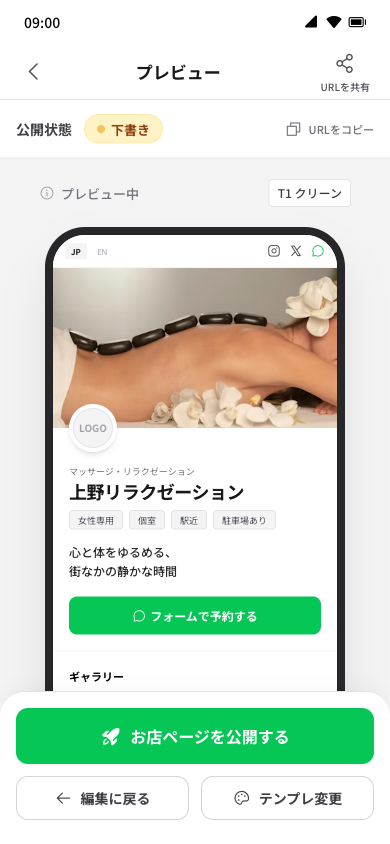
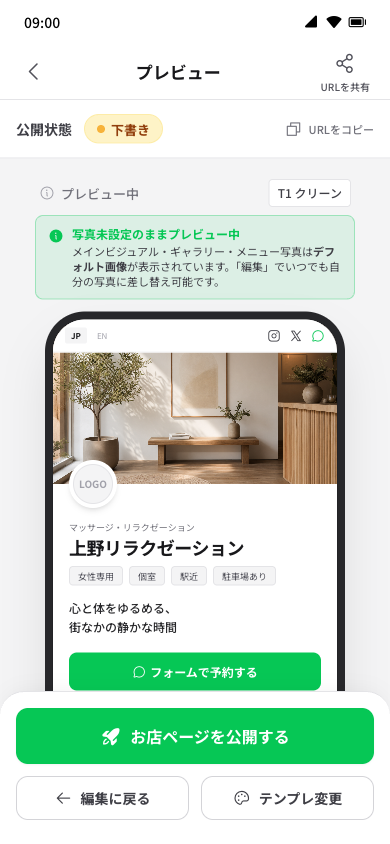
feat: タグ候補にも×削除ボタン / preview をデフォルト値ベースに変更
- Block 3 タグ候補リスト（12個）の各タグに「×」削除ボタンを追加
  ｜タグ本体タップ＝選択中に追加（既存）
  ｜×ボタン＝候補から完全削除（border-l 区切りで2分割）
  ｜hover で text-red-500 に色変化
- ラベル更新「タップで追加・×で候補から削除」と明示
- 03_preview.html を全面リニューアル：
  * 「写真未設定のままプレビュー中」の案内バナーを追加（LINE緑系）
  * ヒーローを default/00_hero.webp に置換、DEFAULTバッジ追加
  * ギャラリー4枚を default/01-04 に置換、各サムネに DEFAULT バッジ
  * メニュー3項目に default/menu/01-04 サムネを追加（120分項目も復活）

Changed region(s): [[0.0923, 0.2464, 0.8923, 0.8318]]

diff --git a/shop-page/admin/03_preview.html b/shop-page/admin/03_preview.html
@@ -84,12 +84,21 @@
         <div class="flex-1 overflow-y-auto pb-[220px] bg-zinc-100 relative">
 
             <!-- Template Switcher Context -->
-            <div class="w-full max-w-[320px] mx-auto flex items-center gap-2 justify-between py-5 px-1">
+            <div class="w-full max-w-[320px] mx-auto flex items-center gap-2 justify-between pt-5 pb-2 px-1">
                 <p class="text-[13px] font-medium text-zinc-500 flex items-center gap-1.5">
                     <i class="ph ph-info text-base text-zinc-400"></i>
                     プレビュー中
                 </p>
                 <span class="text-[12px] font-medium text-zinc-700 bg-white px-2 py-1 rounded border border-zinc-200">T1 クリーン</span>
+            </div>
+
+            <!-- Default state notice -->
+            <div class="w-full max-w-[320px] mx-auto mb-3 px-3 py-2.5 bg-line/10 border border-line/30 rounded-lg flex items-start gap-2">
+                <i class="ph-fill ph-info text-line text-[16px] mt-0.5 shrink-0"></i>
+                <div class="flex-1 min-w-0">
+                    <p class="text-[12px] font-bold text-line leading-tight">写真未設定のままプレビュー中</p>
+                    <p class="text-[11px] text-zinc-700 leading-snug mt-0.5">メインビジュアル・ギャラリー・メニュー写真は<span class="font-bold">デフォルト画像</span>が表示されています。「編集」でいつでも自分の写真に差し替え可能です。</p>
+                </div>
             </div>
 
             <!-- Simulated Phone Frame -->
@@ -112,9 +121,13 @@
                             </div>
                         </div>
 
-                        <!-- Hero -->
+                        <!-- Hero（デフォルト画像） -->
                         <div class="relative">
-                            <img src="https://images.unsplash.com/photo-1600334089648-b0d9d3028eb2?auto=format&fit=crop&w=400&q=80" alt="" class="w-full h-[160px] object-cover">
+                            <img src="../../branding/dummy/default/00_hero.webp" alt="デフォルトメインビジュアル" class="w-full h-[160px] object-cover">
+                            <span class="absolute top-1.5 left-1.5 inline-flex items-center h-4 px-1.5 rounded bg-zinc-900/70 text-white text-[8px] font-bold leading-none gap-0.5">
+                                <i class="ph-fill ph-info text-[9px]"></i>
+                                DEFAULT
+                            </span>
                             <div class="absolute -bottom-6 left-4 w-12 h-12 bg-white rounded-full p-1 shadow-md">
                                 <div class="w-full h-full bg-zinc-100 rounded-full flex items-center justify-center border border-zinc-200">
                                     <span class="text-[10px] font-bold text-zinc-400">LOGO</span>
@@ -141,34 +154,60 @@
                             </div>
                         </div>
 
-                        <!-- Mini Gallery -->
+                        <!-- Mini Gallery（デフォルト6枚） -->
                         <div class="py-4 border-b border-zinc-100">
                             <h3 class="text-[11px] font-bold px-4 mb-2">ギャラリー</h3>
                             <div class="flex gap-2 overflow-x-auto px-4 pb-2">
-                                <img src="https://images.unsplash.com/photo-1544161515-4ab6ce6db874?auto=format&fit=crop&w=150&q=80" alt="" class="w-[80px] h-[80px] object-cover rounded-md shrink-0">
-                                <img src="https://images.unsplash.com/photo-1515377905703-c4788e51af15?auto=format&fit=crop&w=150&q=80" alt="" class="w-[80px] h-[80px] object-cover rounded-md shrink-0">
-                                <img src="https://images.unsplash.com/photo-1519823551278-64ac92734fb1?auto=format&fit=crop&w=150&q=80" alt="" class="w-[80px] h-[80px] object-cover rounded-md shrink-0">
-                                <img src="https://images.unsplash.com/photo-1552693673-1bf958298935?auto=format&fit=crop&w=150&q=80" alt="" class="w-[80px] h-[80px] object-cover rounded-md shrink-0">
+                                <div class="w-[80px] h-[80px] shrink-0 relative">
+                                    <img src="../../branding/dummy/default/01_plants.webp" alt="" class="w-full h-full object-cover rounded-md">
+                                    <span class="absolute top-1 left-1 inline-flex items-center h-3 px-1 rounded bg-zinc-900/70 text-white text-[7px] font-bold leading-none">DEFAULT</span>
+                                </div>
+                                <div class="w-[80px] h-[80px] shrink-0 relative">
+                                    <img src="../../branding/dummy/default/02_light.webp" alt="" class="w-full h-full object-cover rounded-md">
+                                    <span class="absolute top-1 left-1 inline-flex items-center h-3 px-1 rounded bg-zinc-900/70 text-white text-[7px] font-bold leading-none">DEFAULT</span>
+                                </div>
+                                <div class="w-[80px] h-[80px] shrink-0 relative">
+                                    <img src="../../branding/dummy/default/03_linen.webp" alt="" class="w-full h-full object-cover rounded-md">
+                                    <span class="absolute top-1 left-1 inline-flex items-center h-3 px-1 rounded bg-zinc-900/70 text-white text-[7px] font-bold leading-none">DEFAULT</span>
+                                </div>
+                                <div class="w-[80px] h-[80px] shrink-0 relative">
+                                    <img src="../../branding/dummy/default/04_candle.webp" alt="" class="w-full h-full object-cover rounded-md">
+                                    <span class="absolute top-1 left-1 inline-flex items-center h-3 px-1 rounded bg-zinc-900/70 text-white text-[7px] font-bold leading-none">DEFAULT</span>
+                                </div>
                             </div>
                         </div>
 
-                        <!-- Menu -->
+                        <!-- Menu（デフォルトメニュー写真） -->
                         <div class="py-4 px-4 border-b border-zinc-100">
                             <h3 class="text-[11px] font-bold mb-3">メニュー</h3>
-                            <div class="space-y-2">
-                                <div class="flex justify-between items-start">
-                                    <div>
-                                        <p class="text-[10px] font-semibold text-zinc-900">60分もみほぐし</p>
+                            <div class="space-y-2.5">
+                                <div class="flex items-center gap-2">
+                                    <div class="w-9 h-9 rounded shrink-0 relative overflow-hidden">
+                                        <img src="../../branding/dummy/default/menu/01_oil.webp" alt="" class="w-full h-full object-cover">
+                                    </div>
+                                    <div class="flex-1 min-w-0">
+                                        <p class="text-[10px] font-semibold text-zinc-900 leading-tight">60分もみほぐし</p>
                                         <p class="text-[8px] text-zinc-500 mt-0.5">疲労回復・首肩</p>
                                     </div>
-                                    <p class="text-[10px] font-bold">¥6,000</p>
+                                    <p class="text-[10px] font-bold shrink-0">¥6,000</p>
                                 </div>
-                                <div class="w-full h-px bg-zinc-100"></div>
-                                <div class="flex justify-between items-start">
-                                    <div>
-                                        <p class="text-[10px] font-semibold text-zinc-900">90分全身アロマ</p>
+                                <div class="flex items-center gap-2">
+                                    <div class="w-9 h-9 rounded shrink-0 relative overflow-hidden">
+                                        <img src="../../branding/dummy/default/menu/02_aroma.webp" alt="" class="w-full h-full object-cover">
                                     </div>
-                                    <p class="text-[10px] font-bold">¥8,500</p>
+                                    <div class="flex-1 min-w-0">
+                                        <p class="text-[10px] font-semibold text-zinc-900 leading-tight">90分全身アロマ</p>
+                                    </div>
+                                    <p class="text-[10px] font-bold shrink-0">¥8,500</p>
+                                </div>
+                                <div class="flex items-center gap-2">
+                                    <div class="w-9 h-9 rounded shrink-0 relative overflow-hidden">
+                                        <img src="../../branding/dummy/default/menu/04_stones.webp" alt="" class="w-full h-full object-cover">
+                                    </div>
+                                    <div class="flex-1 min-w-0">
+                                        <p class="text-[10px] font-semibold text-zinc-900 leading-tight">120分じっくりコース</p>
+                                    </div>
+                                    <p class="text-[10px] font-bold shrink-0">¥12,000</p>
                                 </div>
                             </div>
                         </div>

diff --git a/shop-page/admin/02_block-edit.html b/shop-page/admin/02_block-edit.html
@@ -195,21 +195,57 @@
               </span>
             </div>
 
-            <!-- 候補から追加（タップで追加） -->
-            <p class="text-[11px] text-zinc-500 font-bold mb-2">候補から選ぶ（タップで追加）</p>
+            <!-- 候補から追加（タップで追加／×で候補から削除） -->
+            <p class="text-[11px] text-zinc-500 font-bold mb-2">候補から選ぶ（タップで追加・×で候補から削除）</p>
             <div class="flex flex-wrap gap-2 mb-4">
-              <button class="inline-flex items-center h-8 px-3 bg-white border border-zinc-200 text-zinc-700 rounded-md text-[13px] font-medium leading-none touch-active">深夜営業</button>
-              <button class="inline-flex items-center h-8 px-3 bg-white border border-zinc-200 text-zinc-700 rounded-md text-[13px] font-medium leading-none touch-active">キッズOK</button>
-              <button class="inline-flex items-center h-8 px-3 bg-white border border-zinc-200 text-zinc-700 rounded-md text-[13px] font-medium leading-none touch-active">クレカ可</button>
-              <button class="inline-flex items-center h-8 px-3 bg-white border border-zinc-200 text-zinc-700 rounded-md text-[13px] font-medium leading-none touch-active">PayPay可</button>
-              <button class="inline-flex items-center h-8 px-3 bg-white border border-zinc-200 text-zinc-700 rounded-md text-[13px] font-medium leading-none touch-active">英語対応</button>
-              <button class="inline-flex items-center h-8 px-3 bg-white border border-zinc-200 text-zinc-700 rounded-md text-[13px] font-medium leading-none touch-active">中国語対応</button>
-              <button class="inline-flex items-center h-8 px-3 bg-white border border-zinc-200 text-zinc-700 rounded-md text-[13px] font-medium leading-none touch-active">カウンセリングあり</button>
-              <button class="inline-flex items-center h-8 px-3 bg-white border border-zinc-200 text-zinc-700 rounded-md text-[13px] font-medium leading-none touch-active">シャワー完備</button>
-              <button class="inline-flex items-center h-8 px-3 bg-white border border-zinc-200 text-zinc-700 rounded-md text-[13px] font-medium leading-none touch-active">プライベート空間</button>
-              <button class="inline-flex items-center h-8 px-3 bg-white border border-zinc-200 text-zinc-700 rounded-md text-[13px] font-medium leading-none touch-active">完全予約制</button>
-              <button class="inline-flex items-center h-8 px-3 bg-white border border-zinc-200 text-zinc-700 rounded-md text-[13px] font-medium leading-none touch-active">当日予約OK</button>
-              <button class="inline-flex items-center h-8 px-3 bg-white border border-zinc-200 text-zinc-700 rounded-md text-[13px] font-medium leading-none touch-active">手ぶらOK</button>
+              <span class="inline-flex items-center h-8 bg-white border border-zinc-200 text-zinc-700 rounded-md text-[13px] font-medium leading-none overflow-hidden">
+                <button class="h-full pl-3 pr-1.5 touch-active flex items-center">深夜営業</button>
+                <button class="h-full pl-1 pr-2 text-zinc-400 hover:text-red-500 touch-active flex items-center border-l border-zinc-100" aria-label="候補から削除"><i class="ph ph-x text-[12px]"></i></button>
+              </span>
+              <span class="inline-flex items-center h-8 bg-white border border-zinc-200 text-zinc-700 rounded-md text-[13px] font-medium leading-none overflow-hidden">
+                <button class="h-full pl-3 pr-1.5 touch-active flex items-center">キッズOK</button>
+                <button class="h-full pl-1 pr-2 text-zinc-400 hover:text-red-500 touch-active flex items-center border-l border-zinc-100" aria-label="候補から削除"><i class="ph ph-x text-[12px]"></i></button>
+              </span>
+              <span class="inline-flex items-center h-8 bg-white border border-zinc-200 text-zinc-700 rounded-md text-[13px] font-medium leading-none overflow-hidden">
+                <button class="h-full pl-3 pr-1.5 touch-active flex items-center">クレカ可</button>
+                <button class="h-full pl-1 pr-2 text-zinc-400 hover:text-red-500 touch-active flex items-center border-l border-zinc-100" aria-label="候補から削除"><i class="ph ph-x text-[12px]"></i></button>
+              </span>
+              <span class="inline-flex items-center h-8 bg-white border border-zinc-200 text-zinc-700 rounded-md text-[13px] font-medium leading-none overflow-hidden">
+                <button class="h-full pl-3 pr-1.5 touch-active flex items-center">PayPay可</button>
+                <button class="h-full pl-1 pr-2 text-zinc-400 hover:text-red-500 touch-active flex items-center border-l border-zinc-100" aria-label="候補から削除"><i class="ph ph-x text-[12px]"></i></button>
+              </span>
+              <span class="inline-flex items-center h-8 bg-white border border-zinc-200 text-zinc-700 rounded-md text-[13px] font-medium leading-none overflow-hidden">
+                <button class="h-full pl-3 pr-1.5 touch-active flex items-center">英語対応</button>
+                <button class="h-full pl-1 pr-2 text-zinc-400 hover:text-red-500 touch-active flex items-center border-l border-zinc-100" aria-label="候補から削除"><i class="ph ph-x text-[12px]"></i></button>
+              </span>
+              <span class="inline-flex items-center h-8 bg-white border border-zinc-200 text-zinc-700 rounded-md text-[13px] font-medium leading-none overflow-hidden">
+                <button class="h-full pl-3 pr-1.5 touch-active flex items-center">中国語対応</button>
+                <button class="h-full pl-1 pr-2 text-zinc-400 hover:text-red-500 touch-active flex items-center border-l border-zinc-100" aria-label="候補から削除"><i class="ph ph-x text-[12px]"></i></button>
+              </span>
+              <span class="inline-flex items-center h-8 bg-white border border-zinc-200 text-zinc-700 rounded-md text-[13px] font-medium leading-none overflow-hidden">
+                <button class="h-full pl-3 pr-1.5 touch-active flex items-center">カウンセリングあり</button>
+                <button class="h-full pl-1 pr-2 text-zinc-400 hover:text-red-500 touch-active flex items-center border-l border-zinc-100" aria-label="候補から削除"><i class="ph ph-x text-[12px]"></i></button>
+              </span>
+              <span class="inline-flex items-center h-8 bg-white border border-zinc-200 text-zinc-700 rounded-md text-[13px] font-medium leading-none overflow-hidden">
+                <button class="h-full pl-3 pr-1.5 touch-active flex items-center">シャワー完備</button>
+                <button class="h-full pl-1 pr-2 text-zinc-400 hover:text-red-500 touch-active flex items-center border-l border-zinc-100" aria-label="候補から削除"><i class="ph ph-x text-[12px]"></i></button>
+              </span>
+              <span class="inline-flex items-center h-8 bg-white border border-zinc-200 text-zinc-700 rounded-md text-[13px] font-medium leading-none overflow-hidden">
+                <button class="h-full pl-3 pr-1.5 touch-active flex items-center">プライベート空間</button>
+                <button class="h-full pl-1 pr-2 text-zinc-400 hover:text-red-500 touch-active flex items-center border-l border-zinc-100" aria-label="候補から削除"><i class="ph ph-x text-[12px]"></i></button>
+              </span>
+              <span class="inline-flex items-center h-8 bg-white border border-zinc-200 text-zinc-700 rounded-md text-[13px] font-medium leading-none overflow-hidden">
+                <button class="h-full pl-3 pr-1.5 touch-active flex items-center">完全予約制</button>
+                <button class="h-full pl-1 pr-2 text-zinc-400 hover:text-red-500 touch-active flex items-center border-l border-zinc-100" aria-label="候補から削除"><i class="ph ph-x text-[12px]"></i></button>
+              </span>
+              <span class="inline-flex items-center h-8 bg-white border border-zinc-200 text-zinc-700 rounded-md text-[13px] font-medium leading-none overflow-hidden">
+                <button class="h-full pl-3 pr-1.5 touch-active flex items-center">当日予約OK</button>
+                <button class="h-full pl-1 pr-2 text-zinc-400 hover:text-red-500 touch-active flex items-center border-l border-zinc-100" aria-label="候補から削除"><i class="ph ph-x text-[12px]"></i></button>
+              </span>
+              <span class="inline-flex items-center h-8 bg-white border border-zinc-200 text-zinc-700 rounded-md text-[13px] font-medium leading-none overflow-hidden">
+                <button class="h-full pl-3 pr-1.5 touch-active flex items-center">手ぶらOK</button>
+                <button class="h-full pl-1 pr-2 text-zinc-400 hover:text-red-500 touch-active flex items-center border-l border-zinc-100" aria-label="候補から削除"><i class="ph ph-x text-[12px]"></i></button>
+              </span>
             </div>
 
             <!-- カスタムタグ追加 -->
